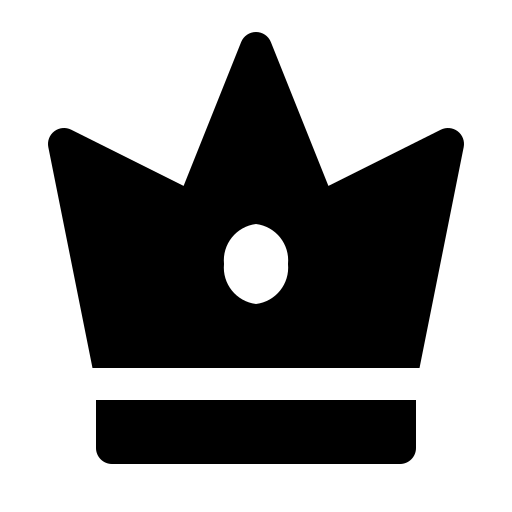
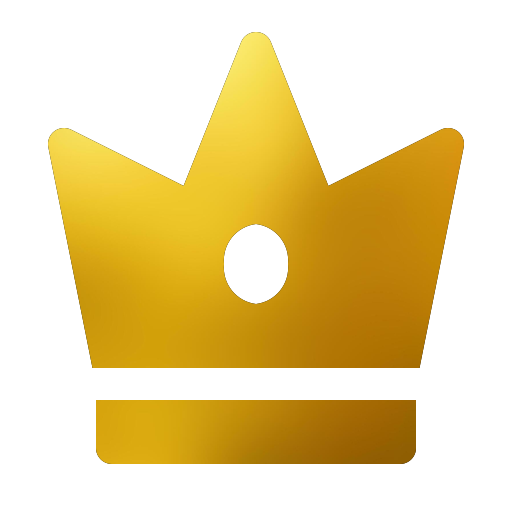
navbar issue

diff --git a/src/components/layout/Navbar.tsx b/src/components/layout/Navbar.tsx
@@ -194,18 +194,66 @@ export const Navbar: React.FC = () => {
               </>
             ) : (
               <Box sx={{ display: 'flex', alignItems: 'center', gap: 1.25 }}>
-                <Box sx={{ display: 'flex', alignItems: 'center', gap: 1 }}>
-                  <Avatar
+                {user?.role === USER_ROLES.JOB_SEEKER && (
+                  <IconButton
+                    component={RouterLink}
+                    to={ROUTES.PRICING}
+                    size="small"
                     sx={{
-                      width: 34,
-                      height: 34,
-                      border: subscription ? '2px solid #FFD700' : '2px solid transparent',
-                      bgcolor: subscription ? '#FFFBEB' : '#E2E8F0',
-                      color: subscription ? '#B45309' : '#475569',
+                      p: 0.75,
+                      borderRadius: '10px',
+                      minWidth: 0,
+                      background: 'rgba(255, 215, 0, 0.16)',
+                      color: '#FFD700',
+                      boxShadow: '0 8px 16px rgba(255, 215, 0, 0.16)',
+                      transition: 'transform 180ms ease, box-shadow 180ms ease',
+                      position: 'relative',
+                      '&:hover': {
+                        transform: 'scale(1.08)',
+                        boxShadow: '0 0 24px 8px rgba(255, 215, 0, 0.35)',
+                      },
+                      '&::before': {
+                        content: '""',
+                        position: 'absolute',
+                        inset: 0,
+                        borderRadius: '10px',
+                        background: 'radial-gradient(circle at top left, rgba(255,255,255,0.7), transparent 38%)',
+                        opacity: 0,
+                        transition: 'opacity 300ms ease',
+                      },
+                      '&:hover::before': {
+                        opacity: 1,
+                      },
                     }}
+                    title="Subscription Plans"
                   >
-                    {generateInitials(user.name)}
-                  </Avatar>
+                    <Box
+                      component="img"
+                      src="/crown.png"
+                      alt="Crown"
+                      sx={{
+                        width: 24,
+                        height: 24,
+                        filter: 'invert(90%) sepia(95%) saturate(850%) hue-rotate(2deg) brightness(1.18) contrast(1.1)',
+                        WebkitFilter: 'invert(90%) sepia(95%) saturate(850%) hue-rotate(2deg) brightness(1.18) contrast(1.1)',
+                        animation: 'crownShine 2.4s ease-in-out infinite',
+                        transformOrigin: 'center center',
+                        display: 'block',
+                      }}
+                    />
+                    <Box
+                      component="span"
+                      sx={{
+                        position: 'absolute',
+                        inset: 0,
+                        borderRadius: '10px',
+                        pointerEvents: 'none',
+                        boxShadow: '0 0 10px 4px rgba(255, 215, 0, 0.22)',
+                      }}
+                    />
+                  </IconButton>
+                )}
+                <Box sx={{ display: 'flex', alignItems: 'center', gap: 1 }}>
                   <Typography
                     variant="body2"
                     sx={{
@@ -216,81 +264,21 @@ export const Navbar: React.FC = () => {
                   >
                     {user.name}
                   </Typography>
-                </Box>
-                {user?.role === USER_ROLES.JOB_SEEKER && (
-                  <>
-                    <IconButton
-                      component={RouterLink}
-                      to={ROUTES.PRICING}
-                      size="small"
+                  <IconButton onClick={handleMenuOpen} size="small">
+                    <Avatar
+                      src={user.avatar}
                       sx={{
-                        p: 0.75,
-                        borderRadius: '10px',
-                        minWidth: 0,
-                        background: 'rgba(255, 215, 0, 0.16)',
-                        color: '#FFD700',
-                        boxShadow: '0 0 0 0 rgba(255, 215, 0, 0.2)',
-                        transition: 'transform 180ms ease, box-shadow 180ms ease',
-                        position: 'relative',
-                        '&:hover': {
-                          transform: 'scale(1.08)',
-                          boxShadow: '0 0 24px 8px rgba(255, 215, 0, 0.35)',
-                        },
-                        '&::before': {
-                          content: '""',
-                          position: 'absolute',
-                          inset: 0,
-                          borderRadius: '10px',
-                          background: 'radial-gradient(circle at top left, rgba(255,255,255,0.7), transparent 38%)',
-                          opacity: 0,
-                          transition: 'opacity 300ms ease',
-                        },
-                        '&:hover::before': {
-                          opacity: 1,
-                        },
+                        width: 36,
+                        height: 36,
+                        background: subscription ? '#FFFBEB' : '#1D4ED8',
+                        border: subscription ? '2px solid #FFD700' : '2px solid #DBEAFE',
+                        color: subscription ? '#B45309' : '#FFFFFF',
                       }}
-                      title="Subscription Plans"
                     >
-                      <Box
-                        component="img"
-                        src="/crown.png"
-                        alt="Crown"
-                        sx={{
-                          width: 24,
-                          height: 24,
-                          filter: 'invert(90%) sepia(95%) saturate(850%) hue-rotate(2deg) brightness(1.18) contrast(1.1)',
-                          WebkitFilter: 'invert(90%) sepia(95%) saturate(850%) hue-rotate(2deg) brightness(1.18) contrast(1.1)',
-                          animation: 'crownShine 2.4s ease-in-out infinite',
-                          transformOrigin: 'center center',
-                          display: 'block',
-                        }}
-                      />
-                      <Box
-                        component="span"
-                        sx={{
-                          position: 'absolute',
-                          inset: 0,
-                          borderRadius: '10px',
-                          pointerEvents: 'none',
-                          boxShadow: '0 0 10px 4px rgba(255, 215, 0, 0.22)',
-                        }}
-                      />
-                    </IconButton>
-                  </>
-                )}
-                <IconButton onClick={handleMenuOpen} size="small">
-                  <Avatar
-                    src={user.avatar}
-                    sx={{
-                      width: 36,
-                      height: 36,
-                      background: '#1D4ED8',
-                      border: '2px solid #DBEAFE',
-                    }}
-                  >
-                    {generateInitials(user.name)}
-                  </Avatar>
-                </IconButton>
+                      {generateInitials(user.name)}
+                    </Avatar>
+                  </IconButton>
+                </Box>
                 <Menu
                   anchorEl={anchorEl}
                   open={Boolean(anchorEl)}